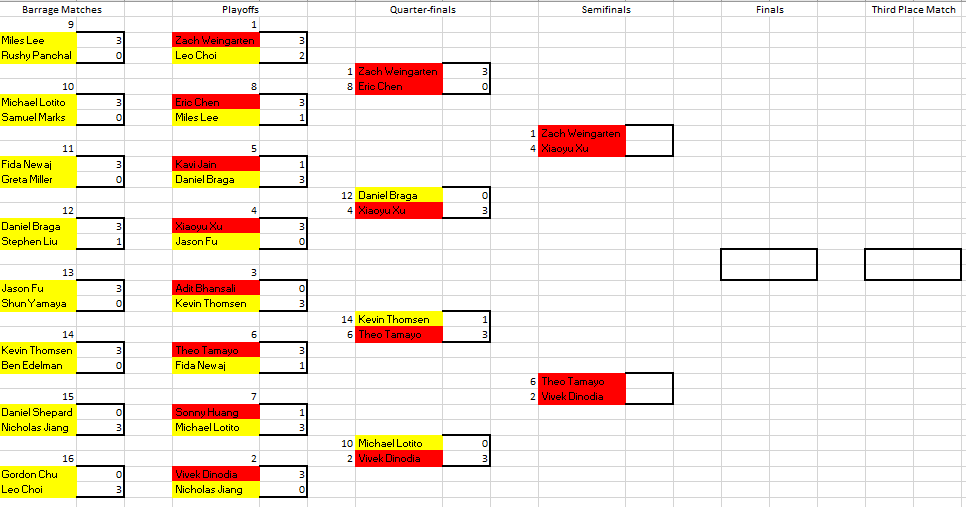
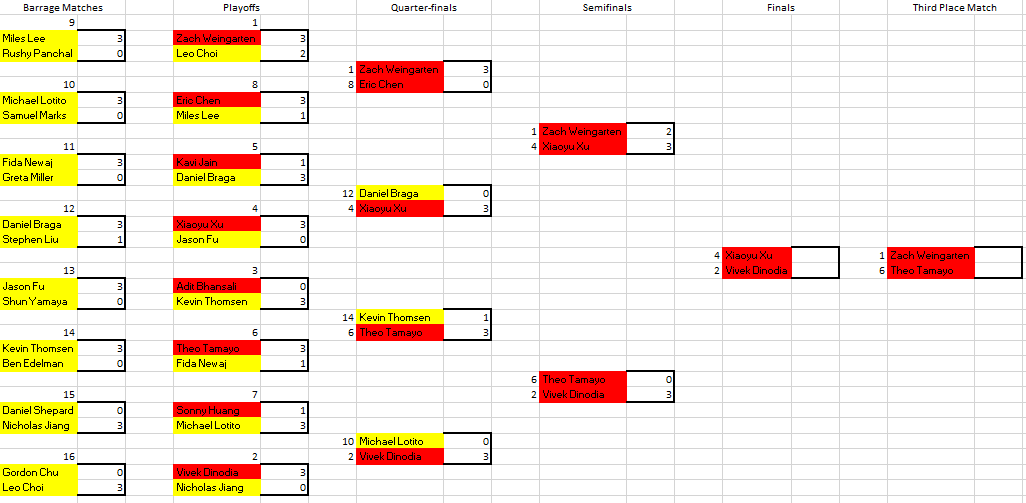
Playoff Updates

Changed region(s): [[0.0, 0.0, 1.0, 1.0]]

diff --git a/home.html b/home.html
@@ -34,7 +34,7 @@
         <div id="first">
           <h1>Current Fixtures</h1>
         </div>
-      <p>Last Updated April 18, 2017</p>
+      <p>Last Updated April 24, 2017</p>
       <div id="north">    
         <h2>Playoffs</h2>
 <h2><img src="playoffsBracket.png" alt="Playoffs Bracket" align="center"></h2>

diff --git a/index.html b/index.html
@@ -34,7 +34,7 @@
         <div id="first">
           <h1>Current Fixtures</h1>
         </div>
-      <p>Last Updated April 18, 2017</p>
+      <p>Last Updated April 24, 2017</p>
       <div id="north">    
         <h2>Playoffs</h2>
 <h2><img src="playoffsBracket.png" alt="Playoffs Bracket" align="center"></h2>
